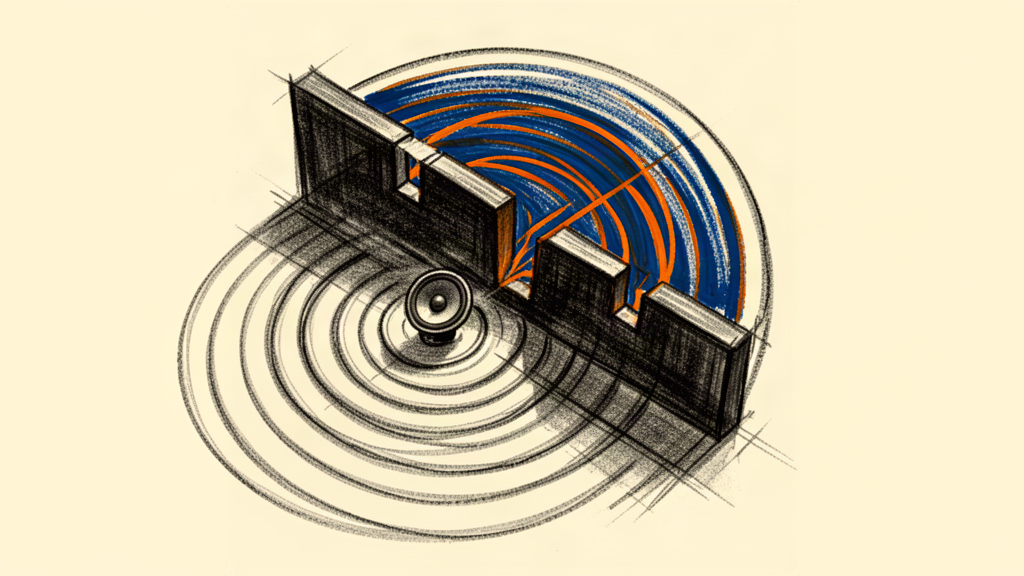
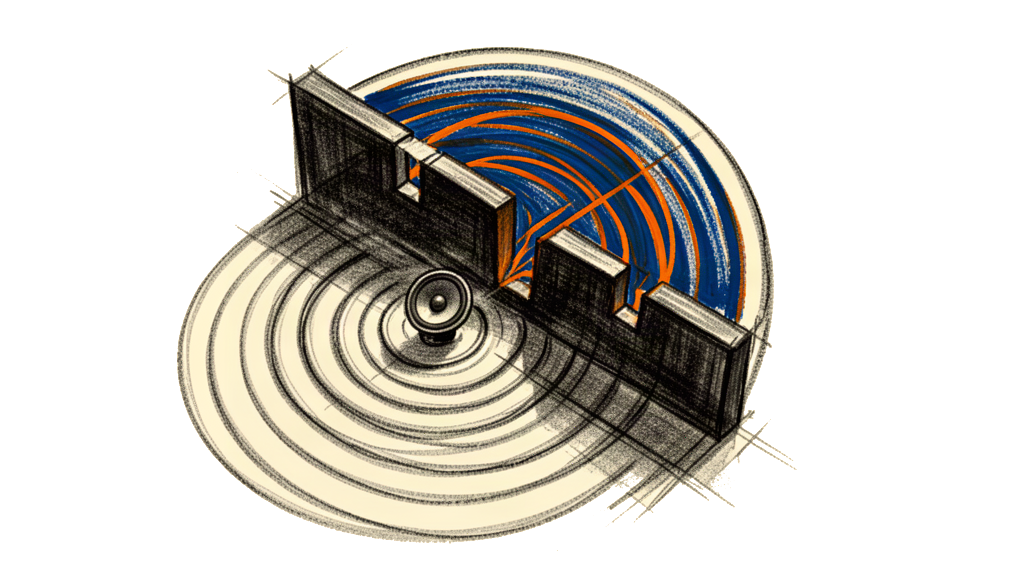
covers: transparent backgrounds (flood keying from border), paper shows through site-wide

diff --git a/scripts/make-covers-transparent.py b/scripts/make-covers-transparent.py
@@ -1,0 +1,60 @@
+#!/usr/bin/env python3
+"""Make the flat cream paper background of house illustration covers transparent.
+
+Flood keying: only paper CONNECTED to the image border becomes transparent.
+Enclosed light areas inside the drawing (faces, concrete, glow cores) stay
+opaque. Soft alpha at the boundary avoids cream halos.
+"""
+import sys
+from pathlib import Path
+from PIL import Image
+import numpy as np
+from scipy import ndimage
+
+T0, T1 = 18, 48  # distance band: below T0 fully paper, above T1 fully opaque
+
+
+def paper_ref(a: np.ndarray) -> np.ndarray:
+    corners = np.concatenate([
+        a[:12, :12].reshape(-1, 3), a[:12, -12:].reshape(-1, 3),
+        a[-12:, :12].reshape(-1, 3), a[-12:, -12:].reshape(-1, 3),
+    ])
+    return np.median(corners, axis=0)
+
+
+def key(im: Image.Image) -> Image.Image:
+    im = im.convert("RGB")
+    a = np.asarray(im).astype(np.int16)
+    ref = paper_ref(a)
+    d = np.sqrt(((a - ref) ** 2).sum(axis=2))
+    paperish = d < T1
+    # connected paper regions that touch the border = background
+    labels, _ = ndimage.label(paperish)
+    border = set(labels[0, :]) | set(labels[-1, :]) | set(labels[:, 0]) | set(labels[:, -1])
+    border.discard(0)
+    bg = np.isin(labels, list(border)) if border else np.zeros(d.shape, bool)
+    alpha = np.where(bg, np.clip((d - T0) / (T1 - T0), 0, 1), 1.0)
+    out = np.dstack([a.astype(np.uint8), (alpha * 255).astype(np.uint8)])
+    return Image.fromarray(out, "RGBA")
+
+
+def main():
+    files = sorted(Path("content/media").glob("*/cover.png"))
+    if not files:
+        sys.exit("no cover.png files found")
+    for f in files:
+        im = Image.open(f)
+        if im.mode == "RGBA":
+            # re-key from a flattened version so re-runs are idempotent
+            bg = Image.new("RGB", im.size, (253, 246, 227))
+            bg.paste(im, mask=im.split()[3])
+            im = bg
+        keyed = key(im)
+        keyed.save(f, optimize=True)
+        opaque = (np.asarray(keyed.split()[3]) > 10).mean()
+        print(f"{f.parent.name}: opaque {opaque:.0%}")
+    print(f"done: {len(files)} files")
+
+
+if __name__ == "__main__":
+    main()

diff --git a/skills/emin-de-illustration/SKILL.md b/skills/emin-de-illustration/SKILL.md
@@ -12,6 +12,8 @@ metadata:
 
 Every non-photo post on emin.de gets a cover illustration in ONE house style. Photo posts keep their photo as the cover. Existing pictures inside post bodies stay untouched.
 
+**The cover file must have a TRANSPARENT background (alpha), not a cream fill.** The site's own paper color shows through everywhere (cards, hero, share cards). Generate on flat cream, then key the paper to alpha with `scripts/make-covers-transparent.py` in the emin-de repo.
+
 ## The style (fixed, do not vary)
 
 Black charcoal drawing combined with selective oil painting color elements, on a flat warm cream background matching the site paper color **#FDF6E3**.
@@ -24,7 +26,7 @@ Rules:
 
 1. One clear central subject, drawn from what the post is actually about (title + description). Never generic clip art.
 2. Two or three oil paint accents maximum. Accent colors (orange, deep blue, green) sit on the most important subject element.
-3. Flat #FDF6E3 background, empty space around the subject. Never dark, never textured background.
+3. Flat #FDF6E3 cream background while GENERATING (the keying needs a uniform paper), empty space around the subject. Never dark, never textured background. The committed file is transparent afterwards.
 4. No text, no letters, no words in the image.
 5. Landscape aspect. Minimum width 1024 px.
 
@@ -38,8 +40,9 @@ Rules:
 2. Find posts without a cover: no `image:`/`cover:` front matter and no `content/media/<slug>/` folder. Photo posts (`format: photo`) keep their photo.
 3. Generate with image_generate using the skeleton above, landscape.
 4. Download to `content/media/<slug>/cover.png` (curl). Keep PNG.
-5. Verify visually: the assistant model may not accept image inputs, so delegate a vision-capable subagent (delegate_task with `images: [path]`) to check background color, style, subject, no text. Regenerate if it fails.
-6. `npm run build` and check the cover count line: raster covers must rise by the number added, generated typographic covers must fall accordingly.
+5. Make the background transparent: `python3 scripts/make-covers-transparent.py` from the repo root (keys all `content/media/*/cover.png` to alpha, idempotent). The cover pipeline and the WebP conversion keep the alpha; the site renders the drawing floating on its own paper color (`.cover` CSS backgrounds it, OG cards already draw a cream rect).
+6. Verify visually: the assistant model may not accept image inputs, so delegate a vision-capable subagent (delegate_task with `images: [path]`) to composite the keyed PNG over cream and over dark grey and check for cream boxes, haze, or eaten subject parts. Regenerate or re-tune T0/T1 if it fails.
+7. `npm run build` and check the cover count line: raster covers must rise by the number added, generated typographic covers must fall accordingly.
 7. Commit `content/media/**`, push to main, watch CI, prove `/health` commit == pushed SHA and a cover WebP exists on the live site.
 
 ## Pitfalls
@@ -47,6 +50,6 @@ Rules:
 - Do not put illustrations in `public/photos/` (that is the photo gallery; the gallery only reads its top level).
 - Do not touch `content/posts/**` front matter for the folder-fallback path.
 - The cover pipeline crops to 3:2 with attention positioning: keep the subject centered enough to survive a crop.
-- Typographic SVG covers remain the fallback for posts with neither photo nor illustration. The goal is zero of them.
 - Generations love adding a fake artist signature scribble in a corner and tiny logo marks on objects. Both count as text: say "no signature, no logo marks" in every prompt and always check the corners in the vision pass.
-- Editing the file via a local path fails (fal cannot download local files). Edit via the original returned URL, or regenerate.
+- Editing the file via a local path fails (fal cannot download local files). Edit via a returned fal URL, and chain edits: each edit returns a new URL that becomes the input of the next pass. Expect 2-3 edit passes (signature, then faint lettering on object surfaces) before a cover is clean.
+- Typographic SVG covers remain the fallback for posts with neither photo nor illustration. The goal is zero of them.
